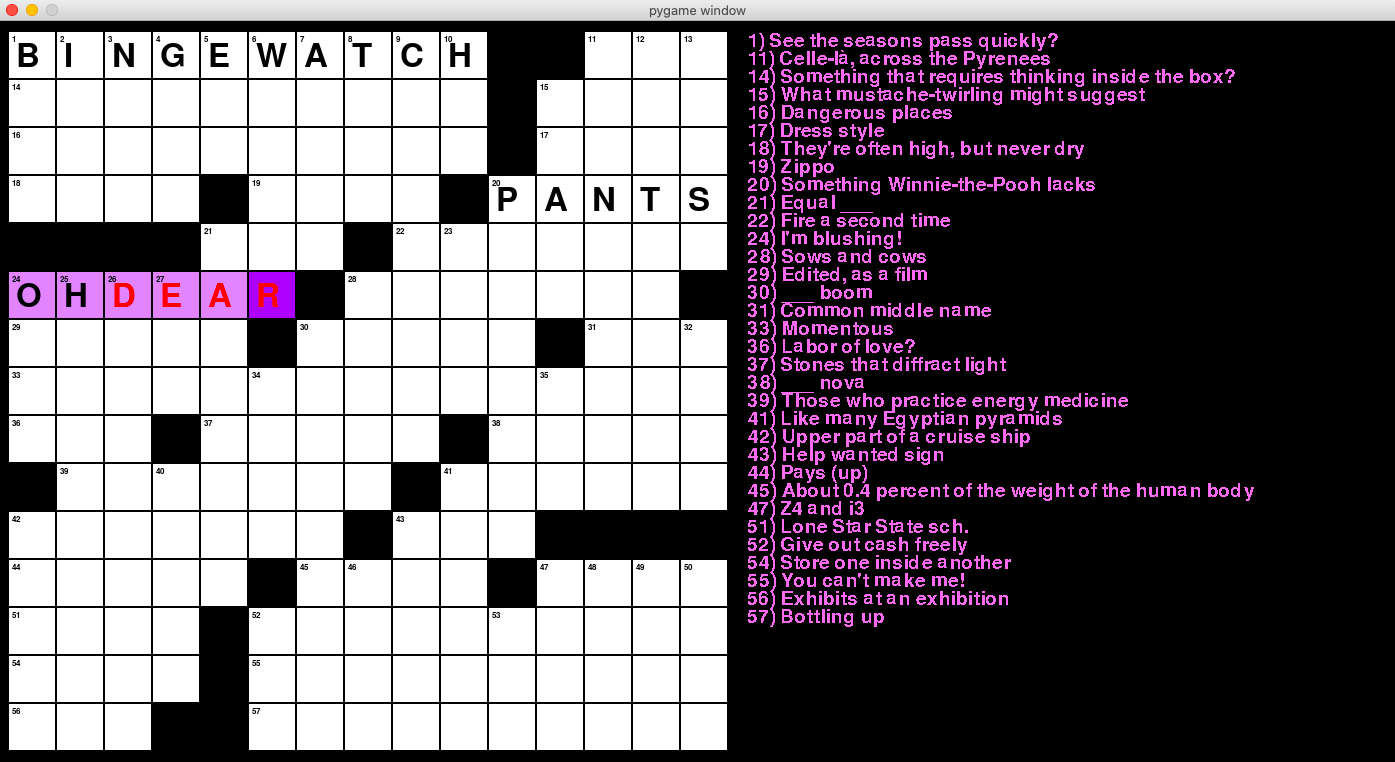
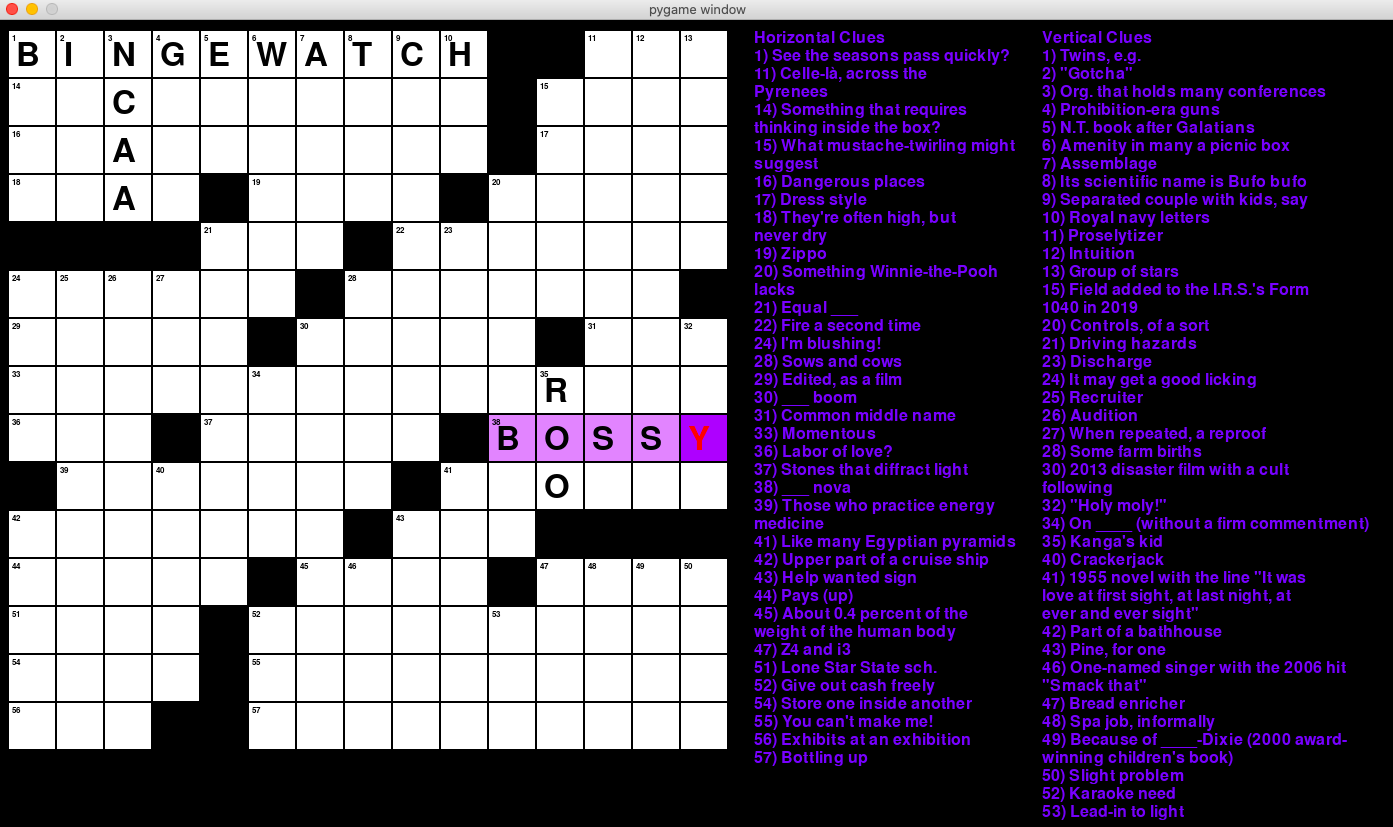
Added dictionary of clues for sample grid

Changed region(s): [[0.0, 0.0, 1.0, 0.9961], [0.0, 0.7244, 0.0309, 0.7546]]

diff --git a/Grid.py b/Grid.py
@@ -4,7 +4,7 @@ from itertools import cycle
 from Tile import Tile
 
 pg.init()
-SCREEN_WIDTH = 2000
+SCREEN_WIDTH = 1400
 SCREEN_HEIGHT = 900
 COLOR_BLANK_TILE = pg.Color('black')
 COLOR_INACTIVE_TILE = pg.Color('white')
@@ -35,7 +35,8 @@ def loop_through_grid(m_end, n_end, m_start = 0, n_start = 0):
         for j in range(n_start, n_end):
             yield i, j
 
-# this creates an iterator to go forward through the (i,j) index
+# the following two "cycle" functions create an iterator to go forward through the (i,j) index 
+# and cycle through from the last tile to the starting tile
 # Note: by switching start and end, we can make the iterator go backwards
 def cycle_grid_horizontally(m_end, n_end, m_start = 0, n_start = 0, backwards = False):
     if backwards == True:
@@ -150,7 +151,7 @@ class Grid:
                     if (self.tile_grid[i-1][j].actual_letter != '') or (self.tile_grid[i+1][j].actual_letter != ''):
                         self.tile_grid[i][j].is_vertical = True
 
-                    # check last column, interior rows
+                # check last column, interior rows
                 elif j == self.tile_grid.shape[1] - 1:
                     if self.tile_grid[i][j-1].actual_letter != '': self.tile_grid[i][j].is_horizontal = True
                     if (self.tile_grid[i-1][j].actual_letter != '') or (self.tile_grid[i+1][j].actual_letter != ''):
@@ -169,19 +170,10 @@ class Grid:
         # self.printTiles()
 
     # the following function returns two dictionaries:
-    # words and their corresponding numbers for horizontal and vertical words
-
-    # go through the grid with the iterator? 
-    # restart the word with every new number! 
-
-    # use horizontal iterator to find horizontal words
-    # use vertical iterator to find vertical words
+    # clue numbers with their corresponding word for horizontal and vertical words
 
     # each new word starts with a number
     def getWords(self):
-        # horizontal_grid_loop = cycle_grid_horizontally(self.nrows, self.ncols)
-        # vertical_grid_loop = cycle_grid_vertically(self.nrows, self.ncols)
-
         horizontal_nums, vertical_nums = [], []
         horizontal_words, vertical_words = [], []
         horizontal_word, vertical_word = '', ''
@@ -210,12 +202,12 @@ class Grid:
                     horizontal_words.append(horizontal_word)
                     horizontal_word = ''
 
-        # loop through the grid vertically, switch nrows and ncols
+        # loop through the grid vertically, switch (i,j) to (j,i)
         # switch horizontal to vertical variables
         for j,i in loop_through_grid(self.nrows, self.ncols):
             # print("Going through", (i,j))
 
-            #(0,0), (1,0)... (1,14),(0,1)...
+            # (0,0), (1,0), (2,0)... (0,14), (0,1), (1,1)... (1,14)...
             # we encounter the first tile of a horizontal word (which has a number)
             if (self.tile_grid[i][j].number != '') and (self.tile_grid[i][j].is_vertical) and (vertical_word == ''):
                 vertical_nums.append(int(self.tile_grid[i][j].number))
@@ -494,7 +486,7 @@ class Grid:
 
             # the next tile is a blank letter OR we are looping around again
             else:
-                print("next tile is blank")
+                # print("next tile is blank")
                 continue  
 
     def setNextVerticalTile(self, m, n, forward = True): 

diff --git a/main.py b/main.py
@@ -9,6 +9,7 @@ SCREEN_WIDTH = 1400
 SCREEN_HEIGHT = 900
 screen = pg.display.set_mode((SCREEN_WIDTH, SCREEN_HEIGHT))
 
+
 if __name__ == '__main__':
     clock = pg.time.Clock()
     done = False
@@ -66,13 +67,49 @@ if __name__ == '__main__':
     'nest': "Store one inside another",
     'idontwanna': "You can't make me!",
     'art': "Exhibits at an exhibition",
-    'containing': "Bottling up"
+    'containing': "Bottling up",
+    'beds': "Twins, e.g.",
+    'isee': '"Gotcha"',
+    'ncaa': "Org. that holds many conferences",
+    'gats': "Prohibition-era guns",
+    'eph': "N.T. book after Galatians",
+    'wetnap': "Amenity in many a picnic box",
+    'array': "Assemblage",
+    'toad': "Its scientific name is Bufo bufo",
+    'coparents': "Separated couple with kids, say",
+    'hms': "Royal navy letters",
+    'evangelist': "Proselytizer",
+    'sixthsense': "Intuition",
+    'alist': "Group of stars",
+    'email': "Field added to the I.R.S.'s Form 1040 in 2019",
+    'placebos': "Controls, of a sort", 
+    'potholes': "Driving hazards",
+    'emit': "Discharge",
+    'oreo': "It may get a good licking",
+    'headhunter': "Recruiter",
+    'screentest': "Audition",
+    'tut': "When repeated, a reproof",
+    'foals': "Some farm births",
+    'sharknado': "2013 disaster film with a cult following",
+    'egad': '"Holy moly!"',
+    'spec': "On ____ (without a firm commentment)",
+    'roo': "Kanga's kid",
+    'adept': "Crackerjack",
+    'lolita': '1955 novel with the line "It was love at first sight, at last night, at ever and ever sight"',
+    'sauna': "Part of a bathhouse",
+    'scent': "Pine, for one",
+    'akon': 'One-named singer with the 2006 hit "Smack that"',
+    'bran': "Bread enricher",
+    'mani': "Spa job, informally",
+    'winn': "Because of ____-Dixie (2000 award-winning children's book)",
+    'snag': "Slight problem",
+    'mic': "Karaoke need",
+    'twi': "Lead-in to light"
     }
 
     letter_grid = np.apply_along_axis(lambda x:list(x[0]), 1, word_grid)
 
     sample_grid = Grid(letter_grid, 0.8, x0, y0)
-    h_dict, v_dict = sample_grid.getWords()
     sample_clues = Clues(sample_grid, clues_dict)
 
     while not done:

diff --git a/Tile.py b/Tile.py
@@ -3,7 +3,7 @@ import pygame as pg
 
 # define pg parameters
 pg.init()
-SCREEN_WIDTH = 1800
+SCREEN_WIDTH = 1400
 SCREEN_HEIGHT = 900
 COLOR_BLANK_TILE = pg.Color('black')
 COLOR_INACTIVE_TILE = pg.Color('white')
